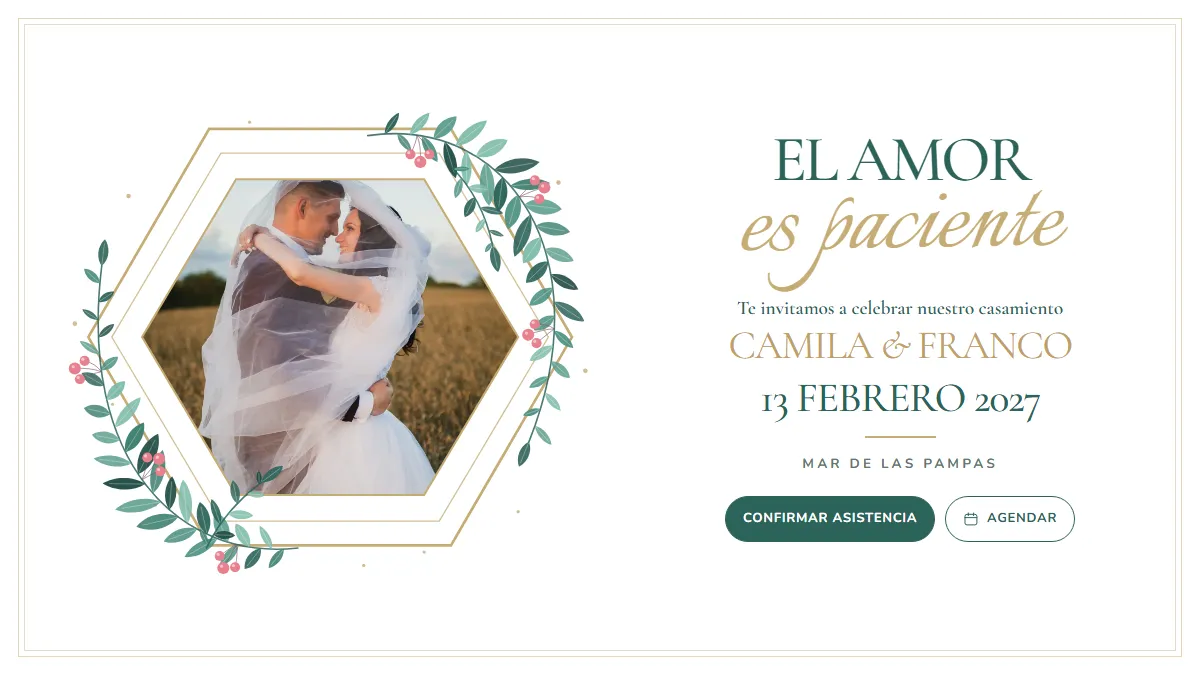
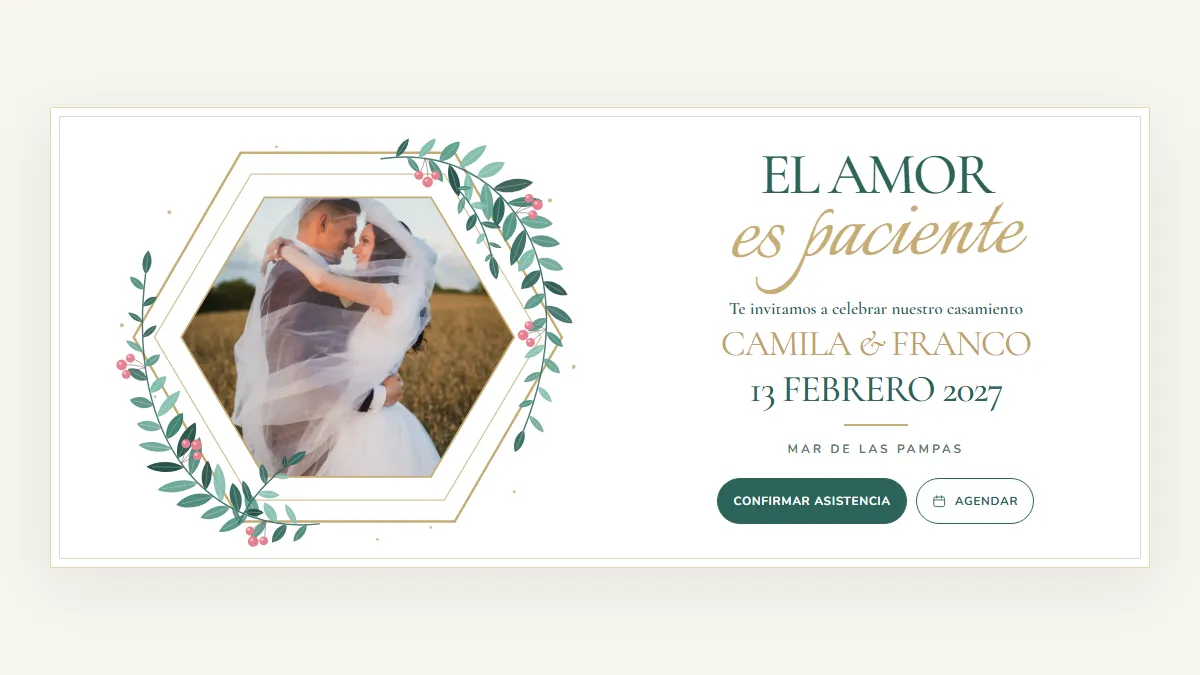
Bohemio: en la compu la portada usa el mismo ancho que el resto de las secciones
Pedido: no a pantalla completa. La lámina horizontal queda en 1100px centrada (el
max-width de las secciones), con el marco dorado doble alrededor del contenido y el
fondo arena del resto de la invitación. En el celular no cambia nada.

Changed region(s): [[0.0308, 0.1556, 0.9558, 0.9022], [0.5858, 0.56, 0.8942, 0.8089], [0.9558, 0.28, 0.9867, 0.8089]]

diff --git a/modelos/bohemio/estilo.css b/modelos/bohemio/estilo.css
@@ -267,12 +267,12 @@ section{position:relative;padding:72px 18px;max-width:1100px;margin:0 auto;text-
    medida, así los textos guardan exactamente las proporciones del celular, sólo que más grandes.
    Los anchos se atan al ALTO de la pantalla para que todo entre sin bajar en una notebook. */
 @media (min-width:1000px){
-  .portada{background:#fff;padding:4vh 4vw;position:relative}
-  .portada::before{content:"";position:absolute;inset:18px;border:1px solid var(--ocre-claro);pointer-events:none}
-  .portada::after{content:"";position:absolute;inset:24px;border:1px solid var(--linea);pointer-events:none}
-  .lamina{container-type:normal;width:min(1640px,100%);border:0;border-radius:0;box-shadow:none;background:transparent}
-  .lamina-adentro{display:grid;grid-template-columns:minmax(0,1.12fr) minmax(0,1fr);align-items:center;gap:3vw;padding:0}
-  .hexagono{width:min(100%,92vh);justify-self:center}
-  .portada-textos{container-type:inline-size;width:min(100%,62vh,660px);justify-self:center}
+  /* Mismo ancho que el resto de las secciones (1100px), centrada, con el marco dorado alrededor del contenido */
+  .portada{background:var(--arena);padding:5vh 32px}
+  .lamina{container-type:normal;width:min(1100px,100%);background:#fff;border:1px solid var(--ocre-claro);border-radius:0;box-shadow:0 18px 60px rgba(35,65,59,.08);padding:3.2vh 3vw}
+  .lamina::before{content:"";position:absolute;inset:8px;border:1px solid var(--linea);pointer-events:none}
+  .lamina-adentro{display:grid;grid-template-columns:minmax(0,1.1fr) minmax(0,1fr);align-items:center;gap:2.5vw;padding:0}
+  .hexagono{width:min(100%,74vh);justify-self:center}
+  .portada-textos{container-type:inline-size;width:min(100%,56vh,460px);justify-self:center}
   .portada-textos .portada-intro{margin-top:5cqw}
 }
